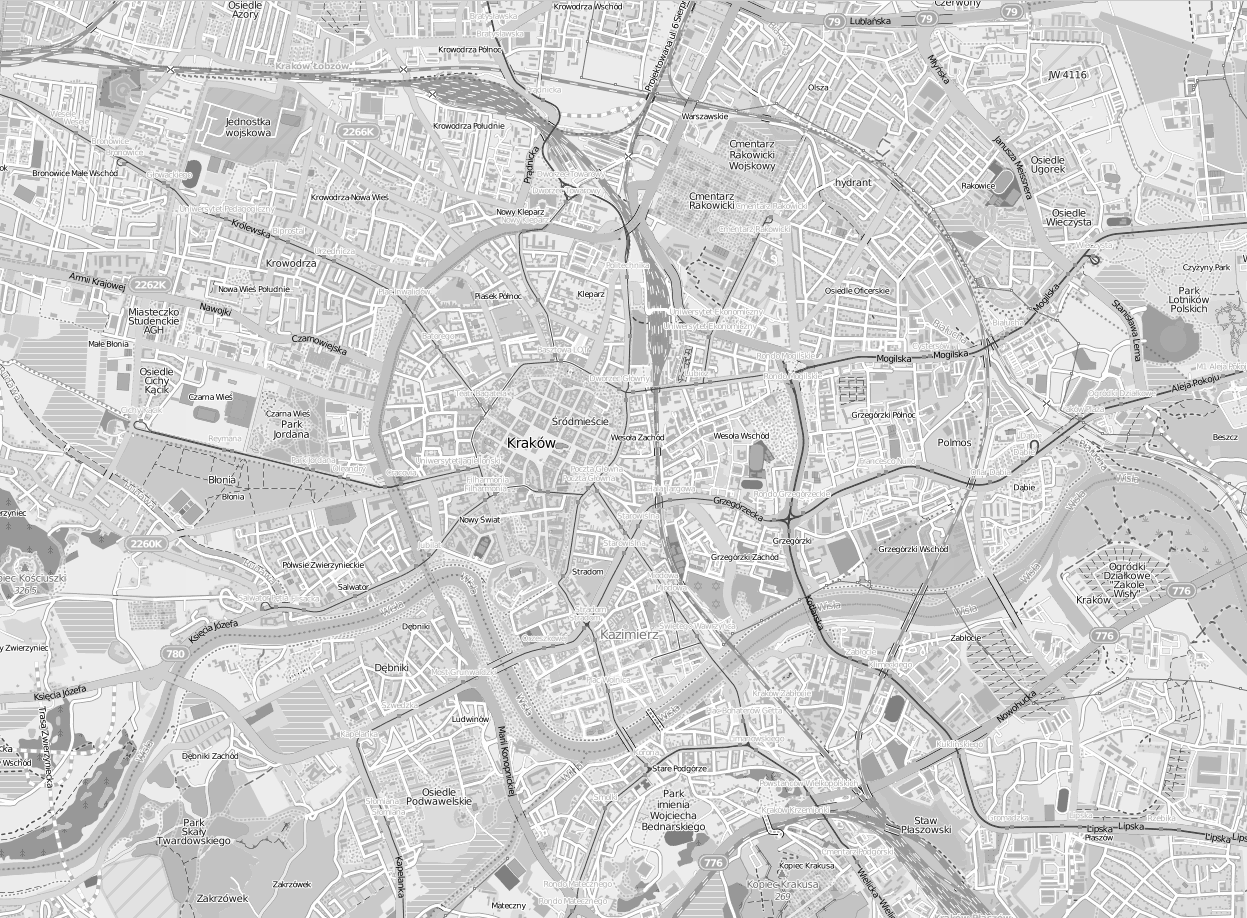
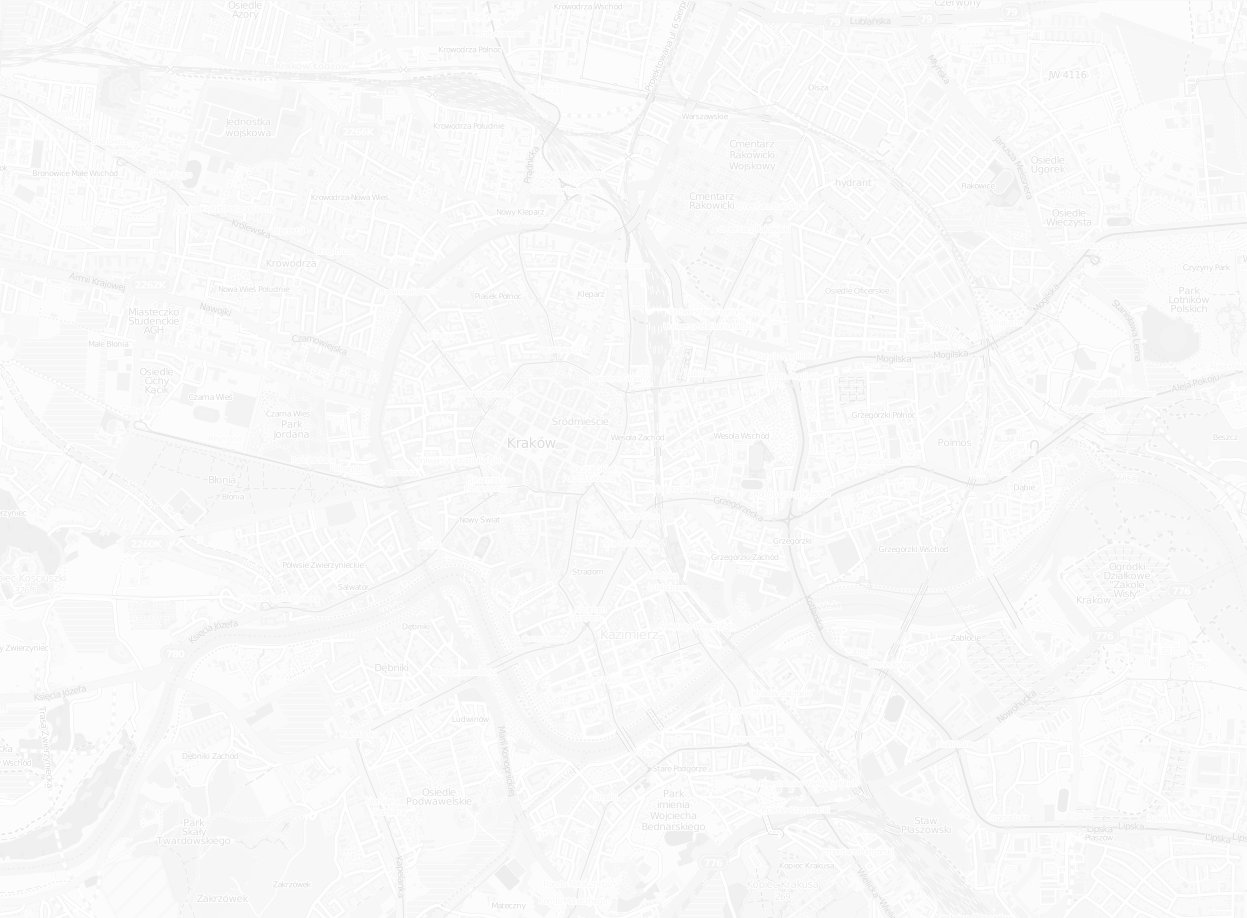
changed look

diff --git a/trips.html b/trips.html
@@ -38,8 +38,8 @@
 	<div id="header" class="row">
 		<div class="large-12 columns">
 			
-			<center><h7>Adventures in</h7></center>
-			<center><h1><a href="index.html">Backpackery</a></h1></center>
+			
+			<center><h1><a href="index.html">Trips</a></h1></center>
 			<hr />
 				<div class="upnav">	
 					<ul class="small-block-grid-4">
@@ -60,64 +60,29 @@
 	</div>
 
 	<div class="row">
-		<div id="content" class="large-9 columns">
+		<div id="content" class="large-12 columns" >
+			<center><div id="trips">
+				<p><img src="img/ua/sm/leavinglviv.png"  />
+				<trip>Solo Europe Backpacking Adventure</trip><br />
+				Date: June-August 2012 Location:
+				
+				</p>
+				
+				<p>
+				<trip>Solo Europe Backpacking Adventure</trip><br />
+				Date: June-August 2012 Location:
+				<img src="img/ua/sm/leavinglviv.png" class="align-right" />
+				</p>
 			
 
-			<div id='coin-slider'>
-							<a href="#" target="_blank">
-								<img src='img/bryce.jpg' >
-									<span>
-										Bryce Canyon NP, Utah
-									</span>
-							</a>
-							
-							<a href="#" target="_blank">
-								<img src='img/tree.jpg' >
-									<span>
-										Waterpocket fold, Capitol Reef NP, Utah
-									</span>
-							</a>
-							
-							<a href="#" target="_blank">
-								<img src='img/lviv.jpg' >
-									<span>
-										asdfasd
-									</span>
-							</a>
-							
-							
-	
-						<a href="#">
-								<img src='img/slovenja.jpg' >
-									<span>
-										
-									</span>
-									</a>
-									
-									<a href="#" target="_blank">
-										<img src='image/spain.jpg' >
-										<span>
-											
-										</span>
-									</a>
-									
-								</div>
-
 			
-
+			</div></center>
       
 		</div>
 
 	
 
-		<div id="sidebar" class="large-3 columns">
-			<h4><a href="euro.html">Most Recent Trip</a></h4>
-			<p>We're stoked you want to try Foundation! To get going, this file (index.html) includes some basic styles you can modify, play around with, or totally destroy to get going.</p>
-
-			<h4><a href="winds2013.html">Next Trip</a></h4>
-			<p>Once you've exhausted the fun in this document, you should check out:</p>
-			
-		</div>
+		
 
 		<div class="row">
 			<div class="large-12 columns">
@@ -126,10 +91,10 @@
 					
 					<ul class="small-block-grid-4">
 						
-						<li><a href="#">About</a></li>
-						<li><a href="#">Trips</a></li>
-						<li><a href="#"><img src="img/camera-01.png" /></a></li>
-						<li><a href="#">Prep</a></li>
+						<li><a href="#"><img src="img/grizz.png" /></a></li>
+						<li><a href="#"><img src="img/trips-01.png" /></a></li>
+						<li><a href="#"><img src="img/photos-01.png" /></a></li>
+						<li><a href="#"><img src="img/europe-01.png" /></a></li>
 						
 						
 					</ul>

diff --git a/stylesheets/main.css b/stylesheets/main.css
@@ -1,6 +1,6 @@
 html{
     
-    background:url('../img/blackorchid.png');
+    background:url('../img/paper-bg.png');
     
 }
 
@@ -16,12 +16,24 @@ h9 {
     
 }
 
+#fade {background:url('../img/paper-bg.png');}
+
+
+
+#everything {
+    
+    background:url('../img/lviv_map2.png');
+    
+    
+}
+
 body {
     border-top:solid;
 border-color:#08C;
 border-width:8px;
-    background:url('../img/blackorchid.png');
-    color:white;
+    background:url('../img/paper-bg.png');
+    
+    color:black;
     
     font-family: "roboto", Arial, sans-serif;
     
@@ -311,4 +323,16 @@ border-radius: 4px; /* CSS3 */
      -moz-border-radius: 4px; /* Firefox */
 -webkit-border-radius: 4px; /* Safari, Chrome */
 border-radius: 4px; /* CSS3 */
+}
+
+#trips img{
+    max-height:150px;
+   
+    
+}
+
+trip {
+    color:white;
+    font-size:28px;
+    
 }

diff --git a/stylesheets/app.css b/stylesheets/app.css
@@ -2109,7 +2109,7 @@ p {
   font-family: inherit;
   font-weight: normal;
   font-size: 16px;
-  line-height: 1.7;
+  line-height: 1.95;
   margin-bottom: 1.25em;
   text-rendering: optimizeLegibility;
 }
@@ -2171,7 +2171,7 @@ h6 {
 
 /* line 204, ../../../../Ruby200-x64/lib/ruby/gems/2.0.0/gems/zurb-foundation-4.1.6/scss/foundation/components/_type.scss */
 hr {
-  border: solid #dddddd;
+  border: solid #222222;
   border-width: 1px 0 0;
   clear: both;
   margin: 1.25em 0 1.1875em;

diff --git a/euro.html b/euro.html
@@ -136,6 +136,9 @@
   
 </head>
 <body>
+	<div id="everything"> 
+		
+	
 <div id="wrapper">
 	
 
@@ -163,7 +166,7 @@
 		</div>
 	</div>
 
-	<div class="row">
+	<div id ="fade" class="row">
 		
 		<div id="sideselector" class="large-2 columns">
 			<ul class="navimgs">
@@ -1323,6 +1326,6 @@
   
   <script src="javascripts/things.js"></script>
   
-  
+</div>  
 </body>
 </html>
